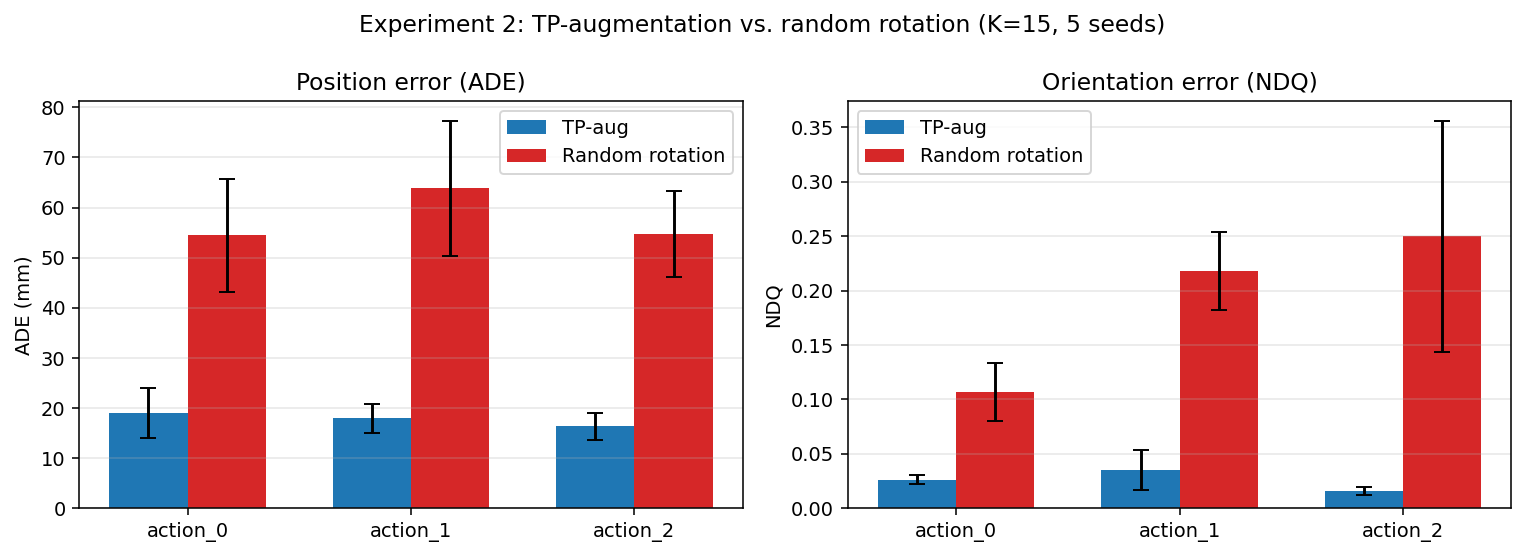
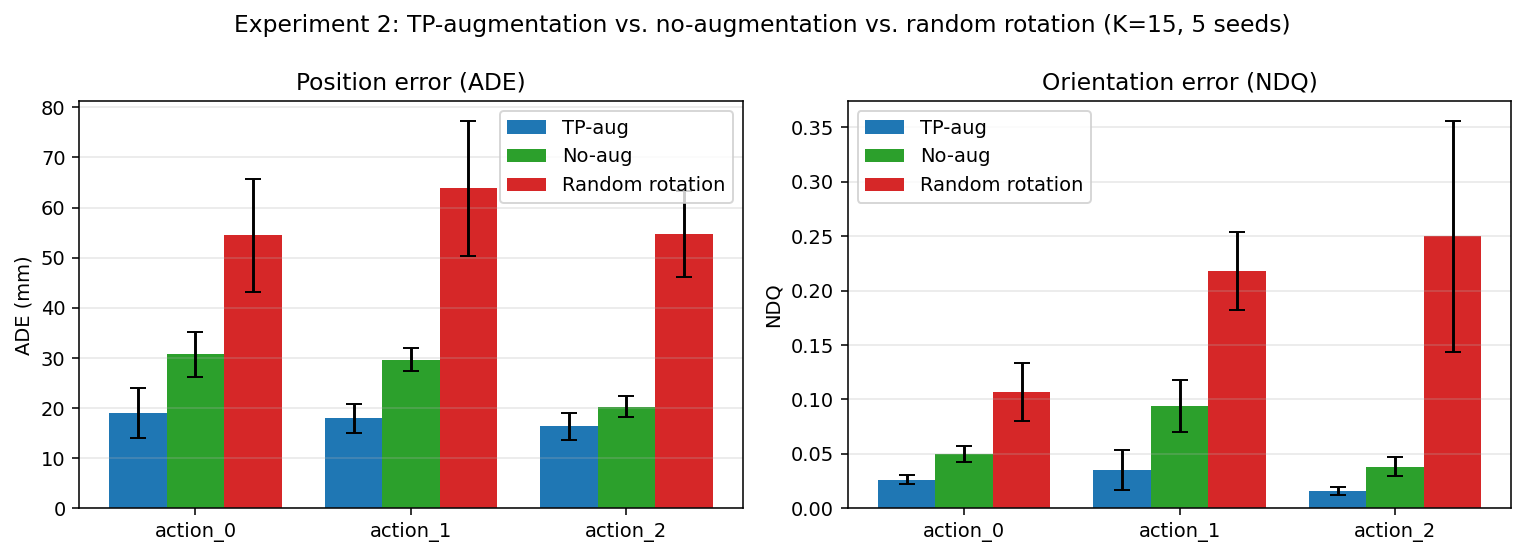
Add no-augmentation arm to Experiment 2 tables and figure
Extends the Experiment 2 augmentation comparison from two arms (TP-aug,
random rotation) to three by adding the no-augmentation control. Updates
the ADE/NDQ tables, findings, summary row, and the bar chart.

Headline: ordering is TP-aug (17.7 mm) < none (26.9) < random rotation
(57.7). Naive random rotation is worse than no augmentation at all, so
TP-aug is the only augmentation that beats the no-aug baseline.

diff --git a/RESULTS.md b/RESULTS.md
@@ -13,35 +13,37 @@ Reported numbers are **per-action mean ± std across the 5 seeds** (each seed's 
 
 ---
 
-## Experiment 2 — Augmentation comparison (TP vs random rotation, K=15)
+## Experiment 2 — Augmentation comparison (TP-aug vs random rotation vs none, K=15)
 
-Compares the task-parameterised data augmentation (TP-aug) against a simple random rotation augmentation, holding everything else (model, dataset, training schedule) fixed at K=15 train demos per action.
+Compares three augmentation regimes for the TP-Transformer, holding everything else (model, dataset, training schedule) fixed at K=15 train demos per action: **TP-aug** (task-parameterised augmentation), **random rotation** (a naive geometric augmentation), and **none** (train on the raw K demos with no augmentation). The "none" arm is the natural control: it tells us whether an augmentation actually helps over doing nothing.
 
 ### Position error (ADE, mm)
 
-| Action   | TP-aug         | Random rotation | TP-aug improvement |
-|----------|----------------|-----------------|--------------------|
-| action_0 | **19.0 ± 5.0** | 54.4 ± 11.3     | 2.9× lower         |
-| action_1 | **17.9 ± 2.8** | 63.8 ± 13.5     | 3.6× lower         |
-| action_2 | **16.3 ± 2.7** | 54.8 ± 8.5      | 3.4× lower         |
-| **mean** | **17.7**       | 57.7            | **3.3× lower**     |
+| Action   | TP-aug         | None            | Random rotation |
+|----------|----------------|-----------------|-----------------|
+| action_0 | **19.0 ± 5.0** | 30.7 ± 4.5      | 54.4 ± 11.3     |
+| action_1 | **17.9 ± 2.8** | 29.7 ± 2.4      | 63.8 ± 13.5     |
+| action_2 | **16.3 ± 2.7** | 20.3 ± 2.0      | 54.8 ± 8.5      |
+| **mean** | **17.7**       | 26.9            | 57.7            |
 
 ### Orientation error (NDQ)
 
-| Action   | TP-aug              | Random rotation     | TP-aug improvement |
-|----------|---------------------|---------------------|--------------------|
-| action_0 | **0.026 ± 0.004**   | 0.107 ± 0.027       | 4.1× lower         |
-| action_1 | **0.035 ± 0.018**   | 0.218 ± 0.036       | 6.2× lower         |
-| action_2 | **0.016 ± 0.004**   | 0.250 ± 0.106       | 16× lower          |
-| **mean** | **0.026**           | 0.192               | **7.4× lower**     |
+| Action   | TP-aug              | None                | Random rotation     |
+|----------|---------------------|---------------------|---------------------|
+| action_0 | **0.026 ± 0.004**   | 0.050 ± 0.007       | 0.107 ± 0.027       |
+| action_1 | **0.035 ± 0.018**   | 0.094 ± 0.024       | 0.218 ± 0.036       |
+| action_2 | **0.016 ± 0.004**   | 0.038 ± 0.009       | 0.250 ± 0.106       |
+| **mean** | **0.026**           | 0.061               | 0.192               |
 
 ### Findings
 
-- **TP-aug is dramatically better than random rotation on every action**, both in position (3.3× lower mean ADE) and orientation (7.4× lower mean NDQ).
-- The gap is **larger than the inter-seed variance**: every TP-aug seed beats every random rotation seed in absolute terms (no overlap).
-- Random rotation degrades **orientation** more than position, suggesting that the geometric structure TP-aug preserves (rotating only position vs. orientation as task requires) is essential for tight rotational accuracy.
+- **Only TP-aug improves over the no-augmentation baseline.** Ordering is TP-aug (17.7 mm) < none (26.9 mm) < random rotation (57.7 mm). TP-aug is **1.5× lower ADE** and **2.3× lower NDQ** than training with no augmentation.
+- **Naive random rotation is *worse than doing nothing*** — 2.1× higher ADE and 3.1× higher NDQ than the no-augmentation baseline. Rotating trajectories without respecting the task geometry injects training signal that is inconsistent with the object-pose conditioning, actively harming the model.
+- This makes the case for TP-aug much stronger than a head-to-head against random rotation alone would: augmentation is **not** automatically beneficial; it helps only when it preserves the task-parameterised structure.
+- Random rotation degrades **orientation** most (16× worse than TP-aug on action_2), confirming that the geometric structure TP-aug preserves is essential for tight rotational accuracy.
+- All three arms are evaluated identically (same test demos, same deterministic single forward pass per demo; no test-time augmentation or averaging), so the differences reflect the training-time augmentation choice alone.
 
-![Experiment 2 — TP-aug vs random rotation](figures/results/exp2_augmentation.png)
+![Experiment 2 — TP-aug vs none vs random rotation](figures/results/exp2_augmentation.png)
 
 ---
 
@@ -218,7 +220,7 @@ alter the loss formulation.
 
 | Question                                            | Result |
 |-----------------------------------------------------|--------|
-| Does TP-augmentation help over plain random rotation? | **Yes** — 3.3× lower ADE, 7.4× lower NDQ at K=15. |
+| Does TP-augmentation help over plain random rotation? | **Yes** — 3.3× lower ADE, 7.4× lower NDQ at K=15. And random rotation is *worse than no augmentation* (57.7 vs 26.9 mm), so only TP-aug beats the no-aug baseline (17.7 vs 26.9 mm). |
 | How does TP-Transformer compare to classical baselines? | **Best at every K and every action**, with the largest margin at K=1. |
 | How does it compare to deep CNP baselines (CNEP, CNMP)? | **Best by 3–5×.** CNEP/CNMP plateau at ~87–130 mm and never beat even TP-ProMP; training regime (single- vs multi-context) barely matters. |
 | Is the TP-Transformer worth the added complexity? | **Yes for low-data (K ≤ 5).** Classical baselines never close the gap, even at K=15. |